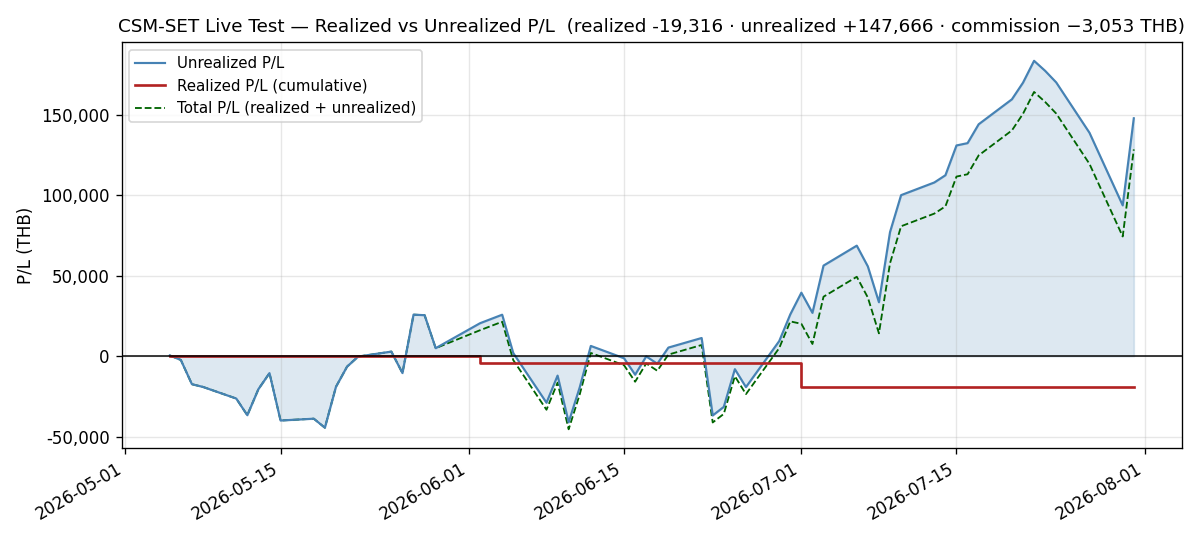
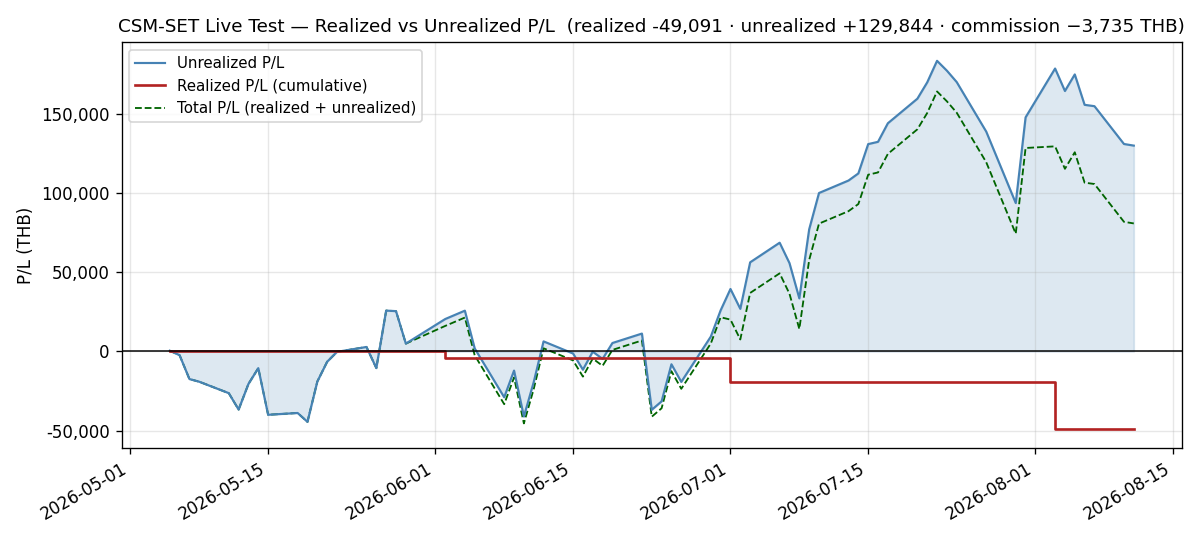
docs(live-test): regenerate the P/L chart through 2026-08-11 — the last stale artifact
Rebuilds pnl_realized_unrealized.png from the just-extended pnl.csv via
gen_pnl_chart.py: 67 points, 2026-05-05 -> 2026-08-11, titled realized
-49,091 / unrealized +129,844 / commission -3,735 THB. The generator writes
only its own PNG, so the three NAV charts are untouched.

Verified against the acceptance criteria this README already carried, by
looking at the rendered image rather than trusting the generator's stdout:
the realized line now steps THREE times (2026-06-02, 2026-07-01, 2026-08-03)
where the superseded render stepped twice, and the unrealized line extends
through the 2026-07-22 peak, the 2026-08-10 MGC collapse and the 08-11 close.
That row is flipped from a pending expectation to a satisfied check.

THE PNGS NO LONGER SIT ON ONE DATE, which is the part a later reader will trip
on. This regeneration was off-cycle, so pnl_realized_unrealized.png is current
to 2026-08-11 while equity_curve/drawdown/monthly_returns remain the 2026-08-01
July month-end set — nav_actual.csv and nav_twr.csv were not extended. The
header now states the two groups separately instead of quoting one date for
all four, and the History section records why.

Also retires the header's "CSV leads the chart by seven sessions" note: the CSV
and the P/L PNG are now in sync, closing the deliberate gap that ran from
2026-08-03 to 2026-08-12.

diff --git a/docs/live-test/graphs/README.md b/docs/live-test/graphs/README.md
@@ -1,12 +1,15 @@
 # Live-Test Charts — how these are generated
 
-_PNGs last regenerated: **2026-08-01**, covering 2026-05-04 → 2026-07-31 (60 NAV points)._
-_`pnl.csv` extended to **2026-08-11** on 2026-08-11 (the daily log's own step, adding the 08-10 and
-08-11 rows to the 2026-08-07 extent) — so the **CSV leads the chart by seven sessions**, deliberately.
-`pnl_realized_unrealized.png` still shows the pre-rebalance pair and is correct only through
-2026-07-31; the August 3 realisation appears in the CSV, not the PNG,
-until the month-end regeneration. `nav_actual.csv` / `nav_twr.csv` are **not** extended and still end
-2026-07-31._
+_**The four PNGs are no longer on a single date — read them separately.** The three **NAV** charts
+(`equity_curve`, `drawdown`, `monthly_returns`) were last regenerated **2026-08-01**, covering
+2026-05-04 → 2026-07-31 (60 NAV points). **`pnl_realized_unrealized.png` was regenerated 2026-08-12**,
+covering 2026-05-05 → 2026-08-11 (67 points)._
+_`pnl.csv` reached its **2026-08-11** extent on 2026-08-11 (the daily log's own step, adding the 08-10
+and 08-11 rows) and the P/L chart was rebuilt from it on 2026-08-12 — so **the CSV and
+`pnl_realized_unrealized.png` are now in sync**, and the deliberate CSV-leads-the-PNG gap that ran
+from 2026-08-03 to 2026-08-12 is closed. The August 3 realisation now appears in **both**.
+`nav_actual.csv` / `nav_twr.csv` are **not** extended and still end 2026-07-31, so the three NAV
+charts remain a July month-end artifact._
 
 Four PNGs, built from **three** committed input CSVs by **two** generator scripts. The three NAV
 charts are **not** produced by a single run — they come from two different series via two runs of the
@@ -227,13 +230,22 @@ do not re-derive `k` from the new NAV.
 | `drawdown.png` title | **−7.11%** (2026-07-30, against the 2026-07-22 peak of 1,262,400.35) |
 | `monthly_returns.png` | May **+0.33%** · Jun **+1.44%** · Jul **+9.53%** |
 | June bar vs the June review | must read **+1.44%**, not +11.62% |
-| `pnl_realized_unrealized.png` *(the 2026-08-01 PNG, through 07-31)* | realized **−19,315.93** · unrealized **+147,665.89** · commission **−3,052.51** THB; the realized line is **flat except at 2026-06-02 and 2026-07-01** |
+| `pnl_realized_unrealized.png` *(the 2026-08-12 PNG, through 08-11)* | realized **−49,091.38** · unrealized **+129,844.35** · commission **−3,735.16** THB; the realized line is **flat except at 2026-06-02, 2026-07-01 and 2026-08-03** — **three** steps. *(The superseded 2026-08-01 render showed −19,315.93 / +147,665.89 / −3,052.51 and only two steps.)* |
 | `pnl.csv` last row *(the CSV leads the PNG — see the header)* | 2026-08-11: realized **−49,091.38** · unrealized **+129,844.35** · total **+80,752.97** · commission **3,735.16** THB; **67 rows**, matching `equity_curve`'s 67 |
-| **After** the August regeneration, `pnl_realized_unrealized.png` | must show the CSV values above, and the realized line **flat except at 2026-06-02, 2026-07-01 and 2026-08-03** — **three** steps, not two |
+| The August regeneration *(**done** 2026-08-12)* | ✅ satisfied — the PNG title reads `realized -49,091 · unrealized +129,844 · commission −3,735 THB`, the series ends 2026-08-11 at 67 points, and the realized line steps **three** times. Verified by eye against the rendered image, not only from the generator's stdout |
 | P/L reconciliation | `realized_cum + unrealized − (NAV − capital)` = **1,610.27** from 2026-08-03 (**1,609.61** for 2026-05-29 → 2026-07-31), and constant *within* each era. A *drifting* residual means a realisation was missed; the one-time **+0.66** step at the rotation is 4-dp `avg_cost` rounding — see above |
 | `commission_cum` | rises **only on the 6 fill dates** (05-05, 06-02, 06-04, 06-05, 07-01, **08-03**); a rise on any other day means a non-trading day was credited with a fill |
 
 ## History
+
+**`pnl_realized_unrealized.png` regenerated 2026-08-12**, off-cycle rather than at a month-end,
+because `pnl.csv` had been extended through 2026-08-11 and the PNG was the last artifact still
+publishing the pre-rebalance pair. It is the **first time the four PNGs sit on two different dates** —
+the P/L chart is current to 2026-08-11, the three NAV charts remain the 2026-08-01 July month-end set,
+because `nav_actual.csv` / `nav_twr.csv` were not extended. Read the two groups separately until the
+August month-end brings the NAV charts forward. The visible change from the 2026-08-01 render is the
+realized line gaining its **third** step at 2026-08-03 (−19,315.93 → −49,091.38) and the unrealized
+line extending through the 2026-07-22 peak, the 2026-08-10 MGC collapse and the 08-11 close.
 
 Regenerated **2026-08-01** for the July month-end. The previous set (2026-06-30) was produced by the
 same two-run procedure, but the procedure itself was never written down — it had to be reconstructed
